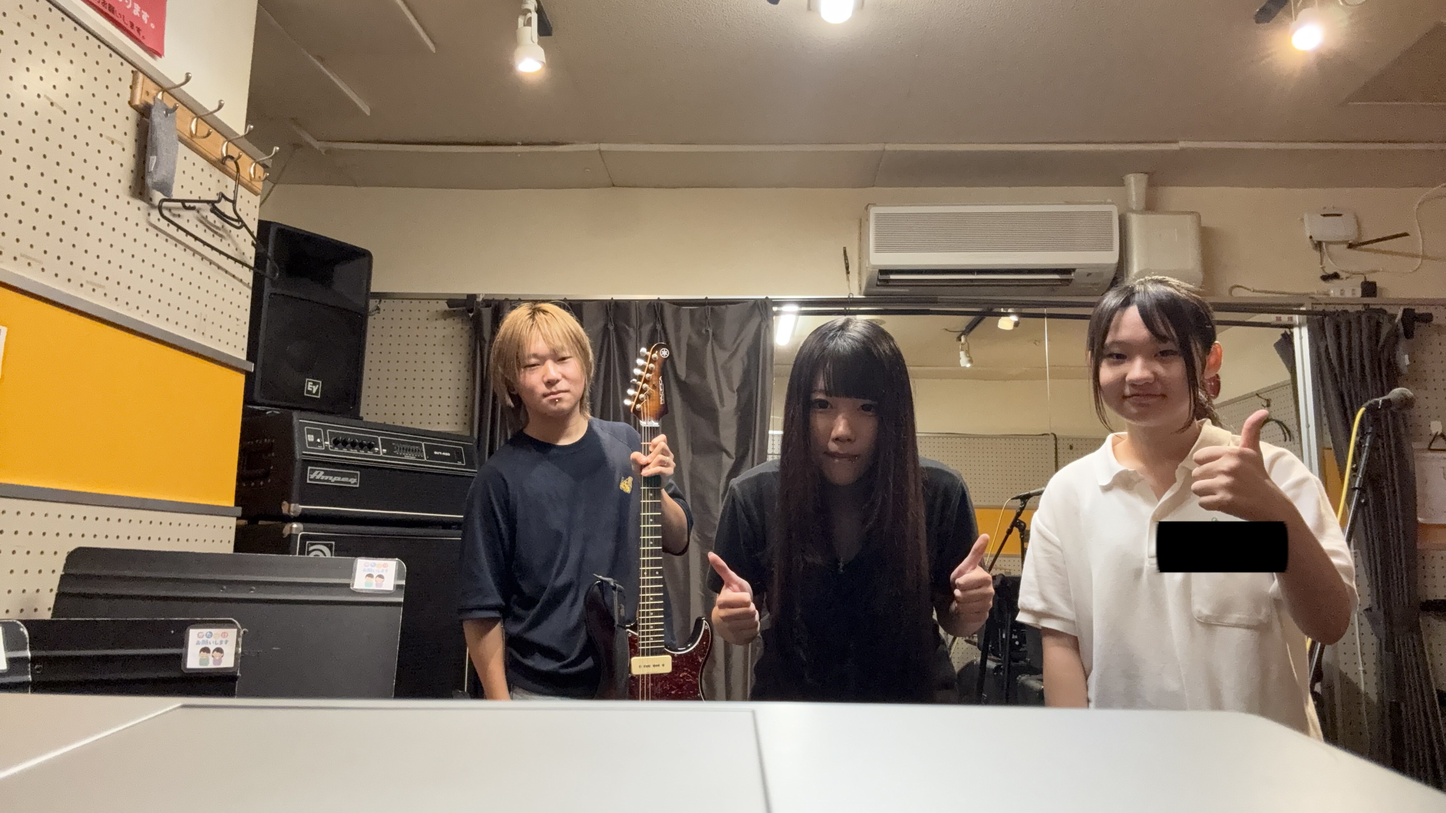
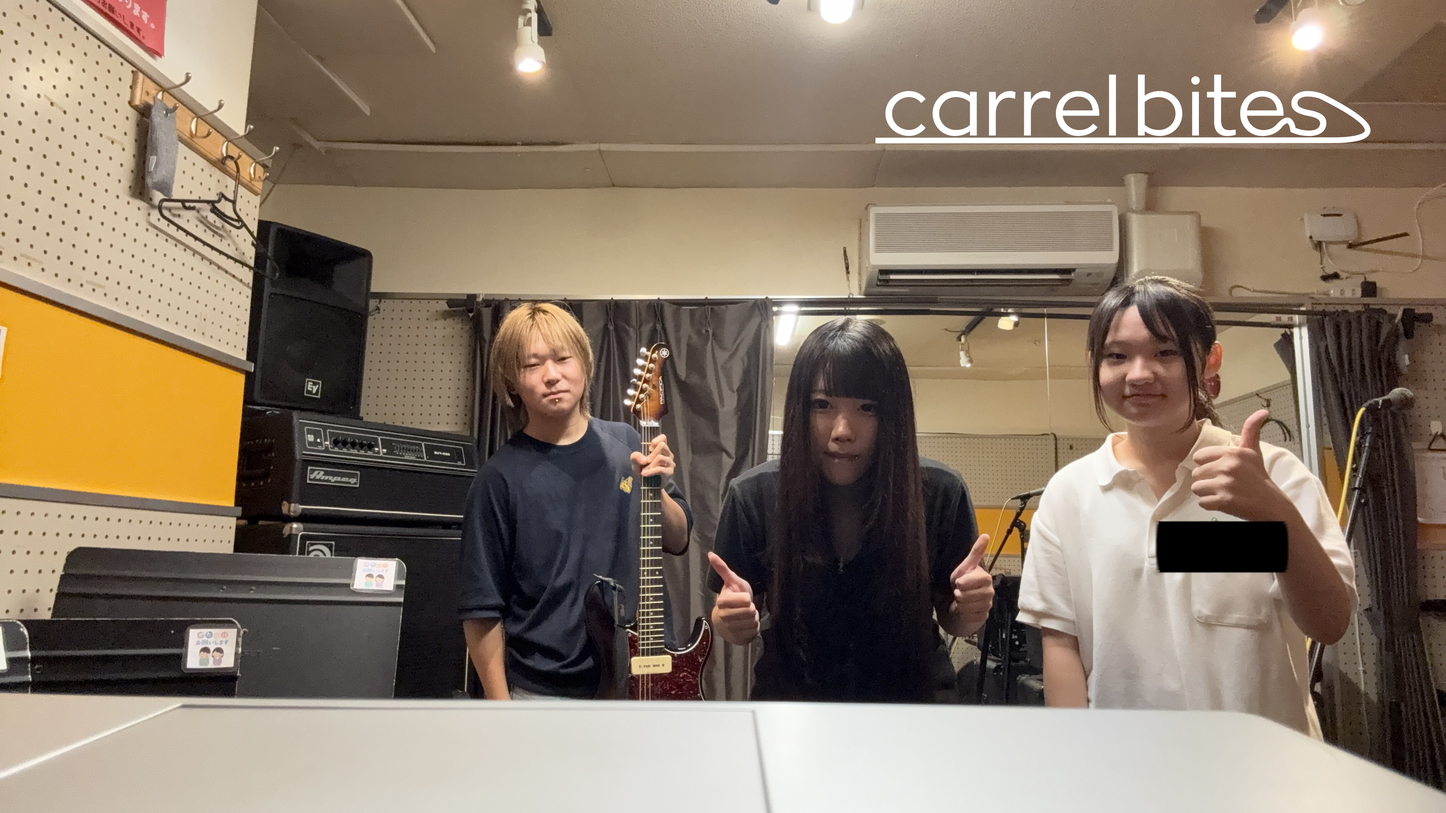
update artistpicture_temp2.jpg and profile.html

Changed region(s): [[0.5938, 0.0926, 0.9688, 0.1852]]

diff --git a/profile.html b/profile.html
@@ -63,7 +63,7 @@
     </section>
 
     <main class="main-visual">
-        <img src="images/artistpicture_temp.png" onerror="this.onerror=null; this.src='images/No_Image.png';" alt="バンドの集合写真" class="band-photo">
+        <img src="images/artistpicture_temp2.jpg" onerror="this.onerror=null; this.src='images/No_Image.png';" alt="バンドの集合写真" class="band-photo">
         <p class="member-order">左から、野村、ひよこ鑑定士、かか。</p>
     </main>
 
